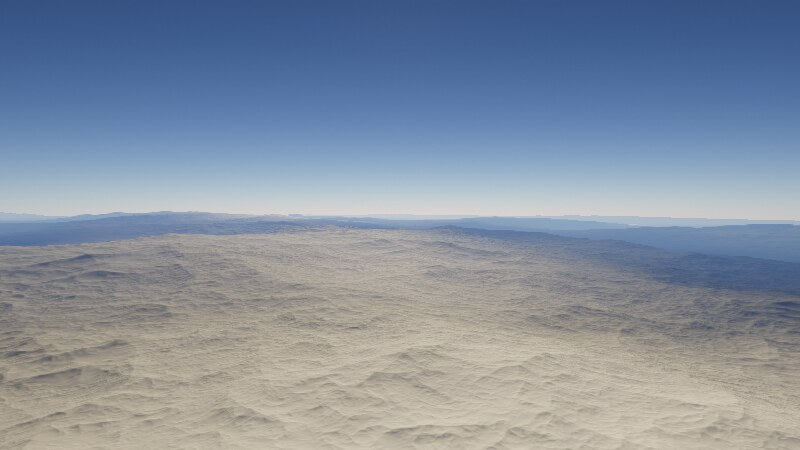
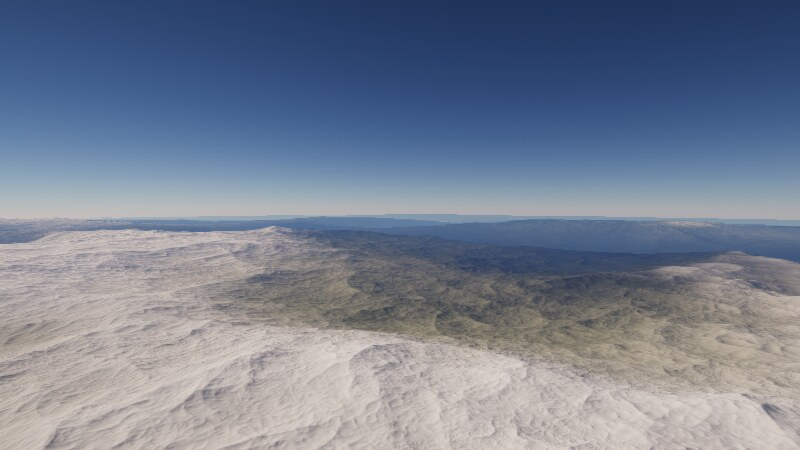
Map-guided procedural ground detail: vegetation patches and fields, arid ground, rock on steep slopes, snow line; landings face across the light

diff --git a/src/terrain_glsl.js b/src/terrain_glsl.js
@@ -235,15 +235,46 @@ float terrain(vec3 d, vec3 P){
 vec3 surfaceColorProc(vec3 d, vec3 P, float h, float slope, out float emis);
 vec3 surfaceColorMapped(vec3 d, vec3 P, float h, float slope, out float emis){
   vec2 uv = mapUV(P);
-  vec3 c = texture(uCMap, uv).rgb*uMapTint;
+  vec3 m = texture(uCMap, uv).rgb*uMapTint;
   emis = 0.;
   int o0 = int(uMapOct);
+  // how far below the map's resolution this tile is (0 = map scale, 1 = much finer)
+  float fine = clamp(float(uOMax - o0)/6., 0., 1.);
+  vec3 c = m;
+  if (uOMax >= o0) {
+    // classify the smeared map colour and synthesise matching detail
+    float lum = dot(m, vec3(0.3, 0.55, 0.15));
+    float green = clamp((m.g - max(m.r, m.b))*6. + 0.3, 0., 1.);
+    float sandy = clamp((m.r - m.b)*4. - green, 0., 1.);
+    float snowy = smoothstep(0.48, 0.7, lum)*smoothstep(0.12, 0.03, abs(m.r - m.b));
+    float n1 = fbm(o0, min(uOMax, o0 + 4), 61u, d, 0.6), n2 = uOMax >= o0 + 4 ? fbm(o0 + 4, uOMax, 62u, d, 0.55) : 0.;
+    float patches = smoothstep(-0.25, 0.25, n1 + 0.5*n2);
+    // vegetation: forest and meadow patches
+    vec3 forest = m*vec3(0.5, 0.62, 0.45), meadow = m*vec3(1.3, 1.22, 0.9);
+    float fields = uOMax >= o0 + 7 ? smoothstep(0.1, 0.35, abs(gn(o0 + 7, 63u, d).x)) : 0.5;   // field mosaic at ~100s of metres
+    meadow *= 0.85 + 0.3*fields;
+    vec3 veg = mix(forest, meadow, patches);
+    // arid ground: lighter sand, darker gravel and outcrops
+    vec3 arid = m*mix(vec3(0.82, 0.8, 0.78), vec3(1.12, 1.06, 0.98), smoothstep(-0.3, 0.3, n1 - 0.4*n2));
+    vec3 det = mix(m*(1. + n2*0.15), veg, green*fine);
+    det = mix(det, arid, sandy*fine*0.8);
+    // bare rock on steep slopes, regardless of the averaged map colour
+    float rock = smoothstep(0.38, 0.7, slope + n2*0.1);
+    vec3 rockC = mix(vec3(0.16, 0.15, 0.14), vec3(0.26, 0.24, 0.21), smoothstep(-0.3, 0.3, n2))*mix(1., lum*3., 0.3);
+    det = mix(det, rockC, rock*fine);
+    // snow: from the map, and from a temperature-based snow line at fine scales
+    float lat = abs(P.y);
+    float snowLine = mix(4900., -200., smoothstep(0.5, 1.0, lat));
+    float snowT = smoothstep(snowLine - 300., snowLine + 400., h + n1*250.)*(1. - smoothstep(0.55, 0.8, slope));
+    det = mix(det, vec3(0.82, 0.85, 0.9)*(0.92 + 0.08*n2), max(snowy, snowT)*fine*(1. - rock*0.6));
+    c = mix(m, det, fine);
+  }
+  float rock2 = smoothstep(0.45, 0.8, slope);
+  c = mix(c, c*vec3(0.85, 0.82, 0.8), rock2*0.4*(1. - fine));
   float nf = uOMax >= o0 ? fbm(o0, uOMax, 15u, d, 0.6)*0.5 : 0.;
-  float rock = smoothstep(0.45, 0.8, slope);
-  c = mix(c, c*vec3(0.75, 0.72, 0.7) + vec3(0.03), rock*0.6);
-  c *= 1. + nf*0.35 + gFine*0.08;
+  c *= 1. + nf*0.25*(1. - fine) + gFine*0.05;
   if (uHasL > 0.5) { float l = texture(uLMap, uv).r; emis = l*l*0.85*gLand; }
-  if (uHasM > 0.5 && gLand < 0.5) c *= 0.8;
+  if (uHasM > 0.5 && gLand < 0.5) c = m*0.8;
   return clamp(c, 0., 1.);
 }
 vec3 surfaceColor(vec3 d, vec3 P, float h, float slope, out float emis){

diff --git a/src/nav.js b/src/nav.js
@@ -237,6 +237,8 @@ export class Nav {
       const upv = g.land.dir, b = g.target.body, st = b.system.stars[0];
       let f = st ? V.sub(st.wpos, b.wpos) : Q.rot(this.q, [0, 0, -1]);
       f = V.norm(V.sub(f, V.mul(upv, V.dot(f, upv))));
+      // look across the light (sun about 70 degrees to the left), the most readable lighting for terrain
+      const side = V.cross(upv, f); f = V.norm(V.add(V.mul(f, 0.34), V.mul(side, -0.94)));
       f = V.norm(V.add(f, V.mul(upv, -0.06)));
       this.q = Q.slerp(this.q, Q.look(f, upv), g.dur < 0.1 ? 1 : 1 - Math.exp(-dt * 3));
     }
